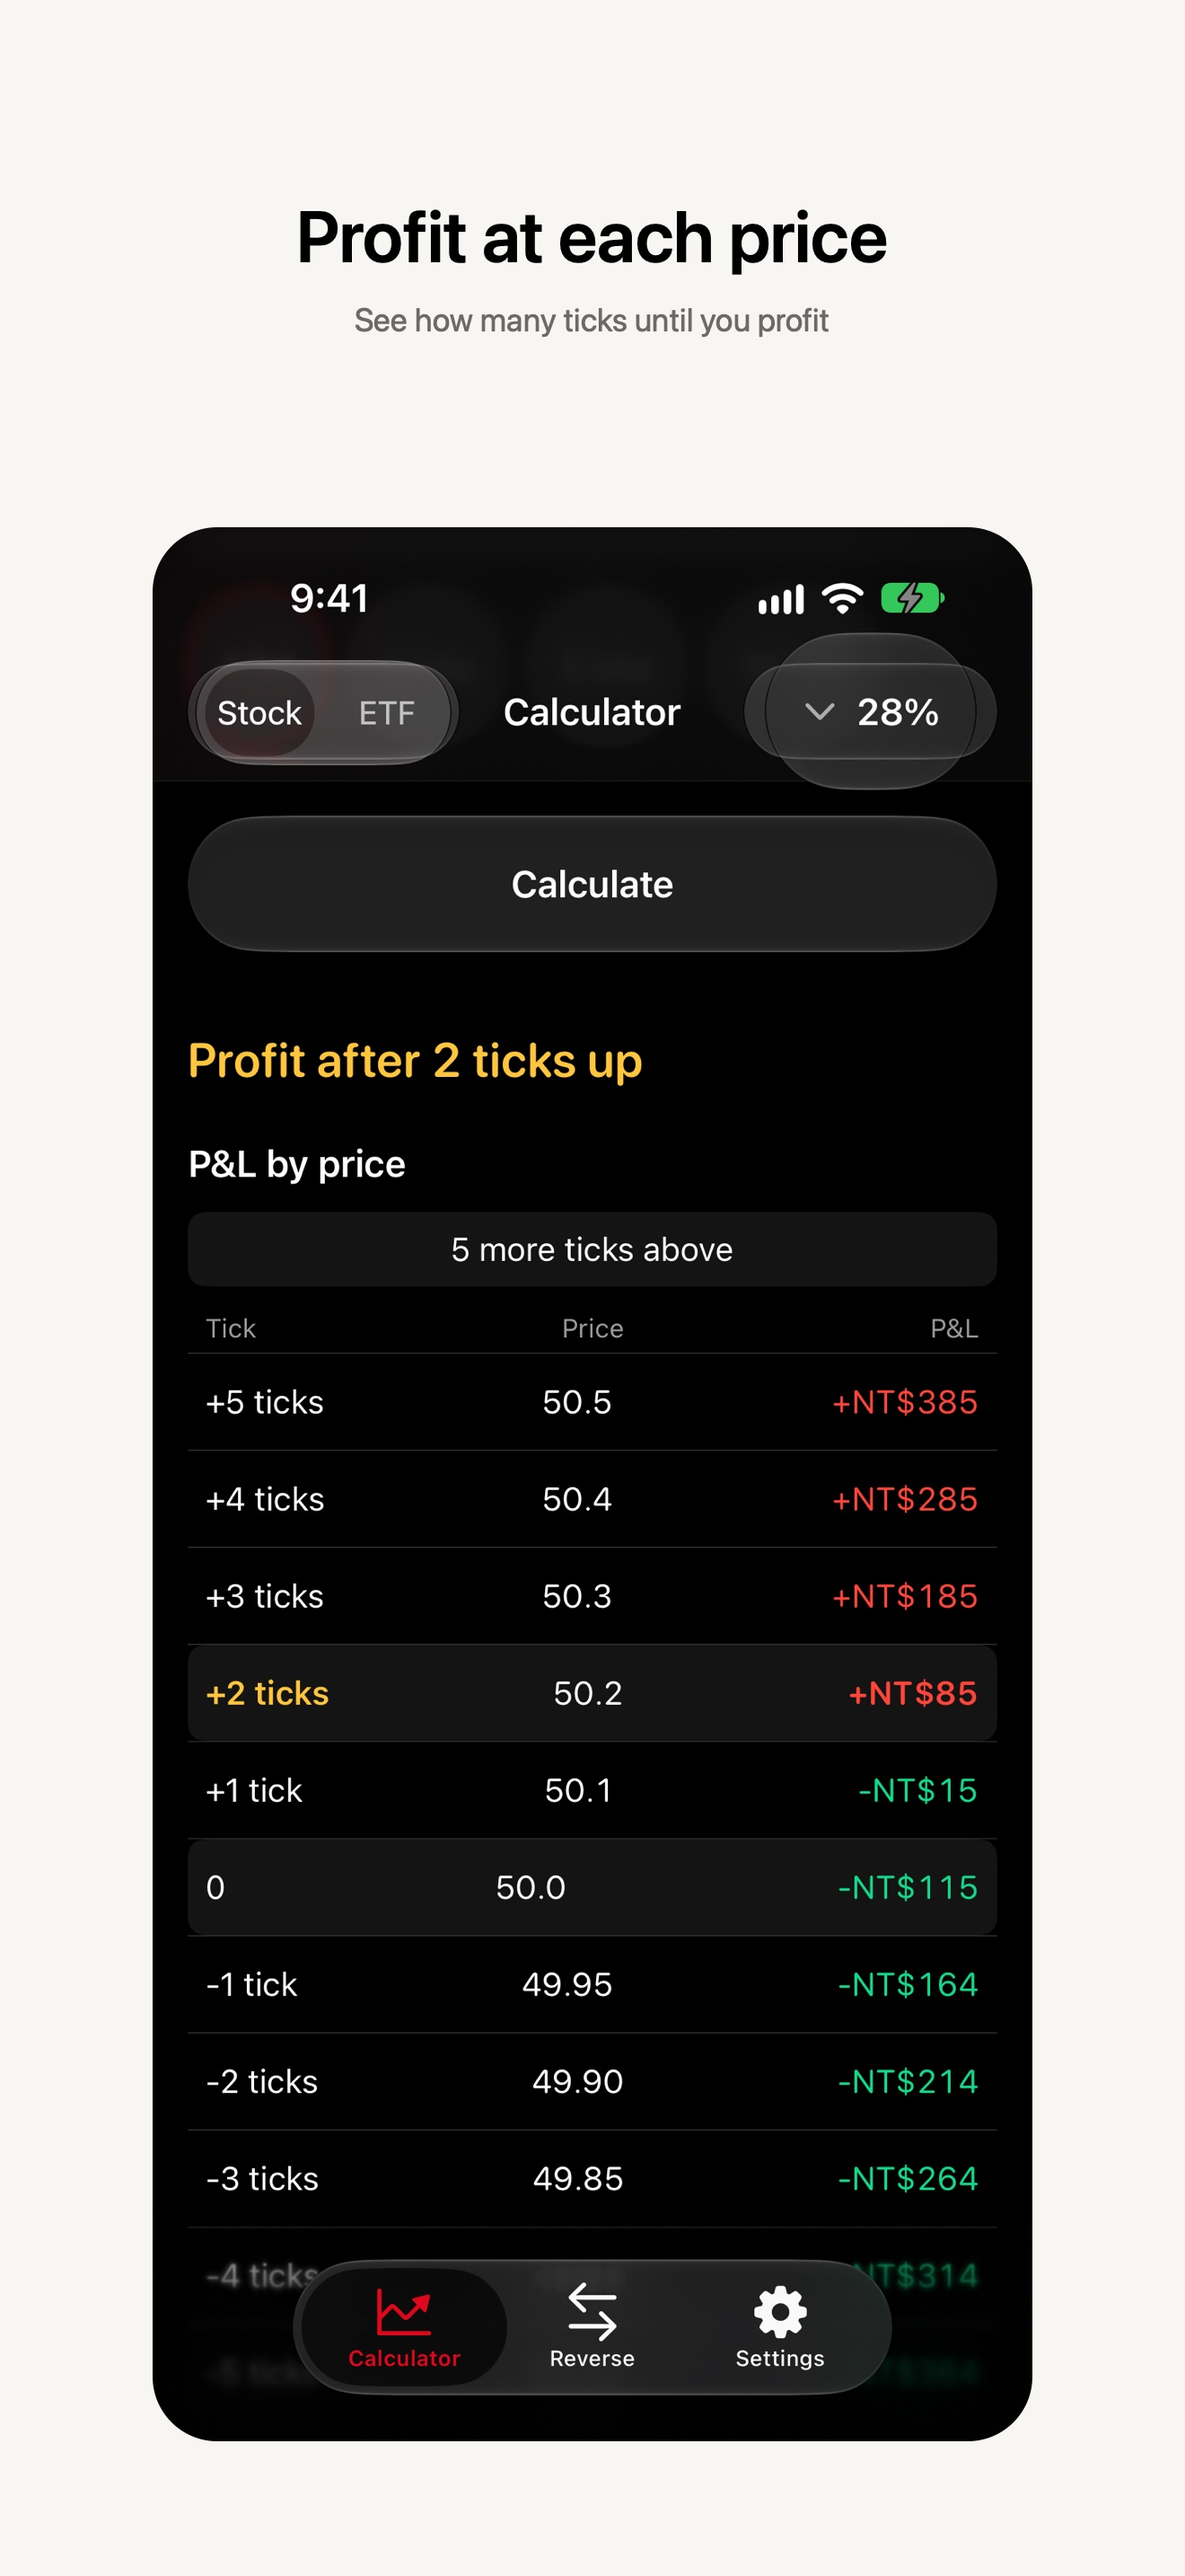
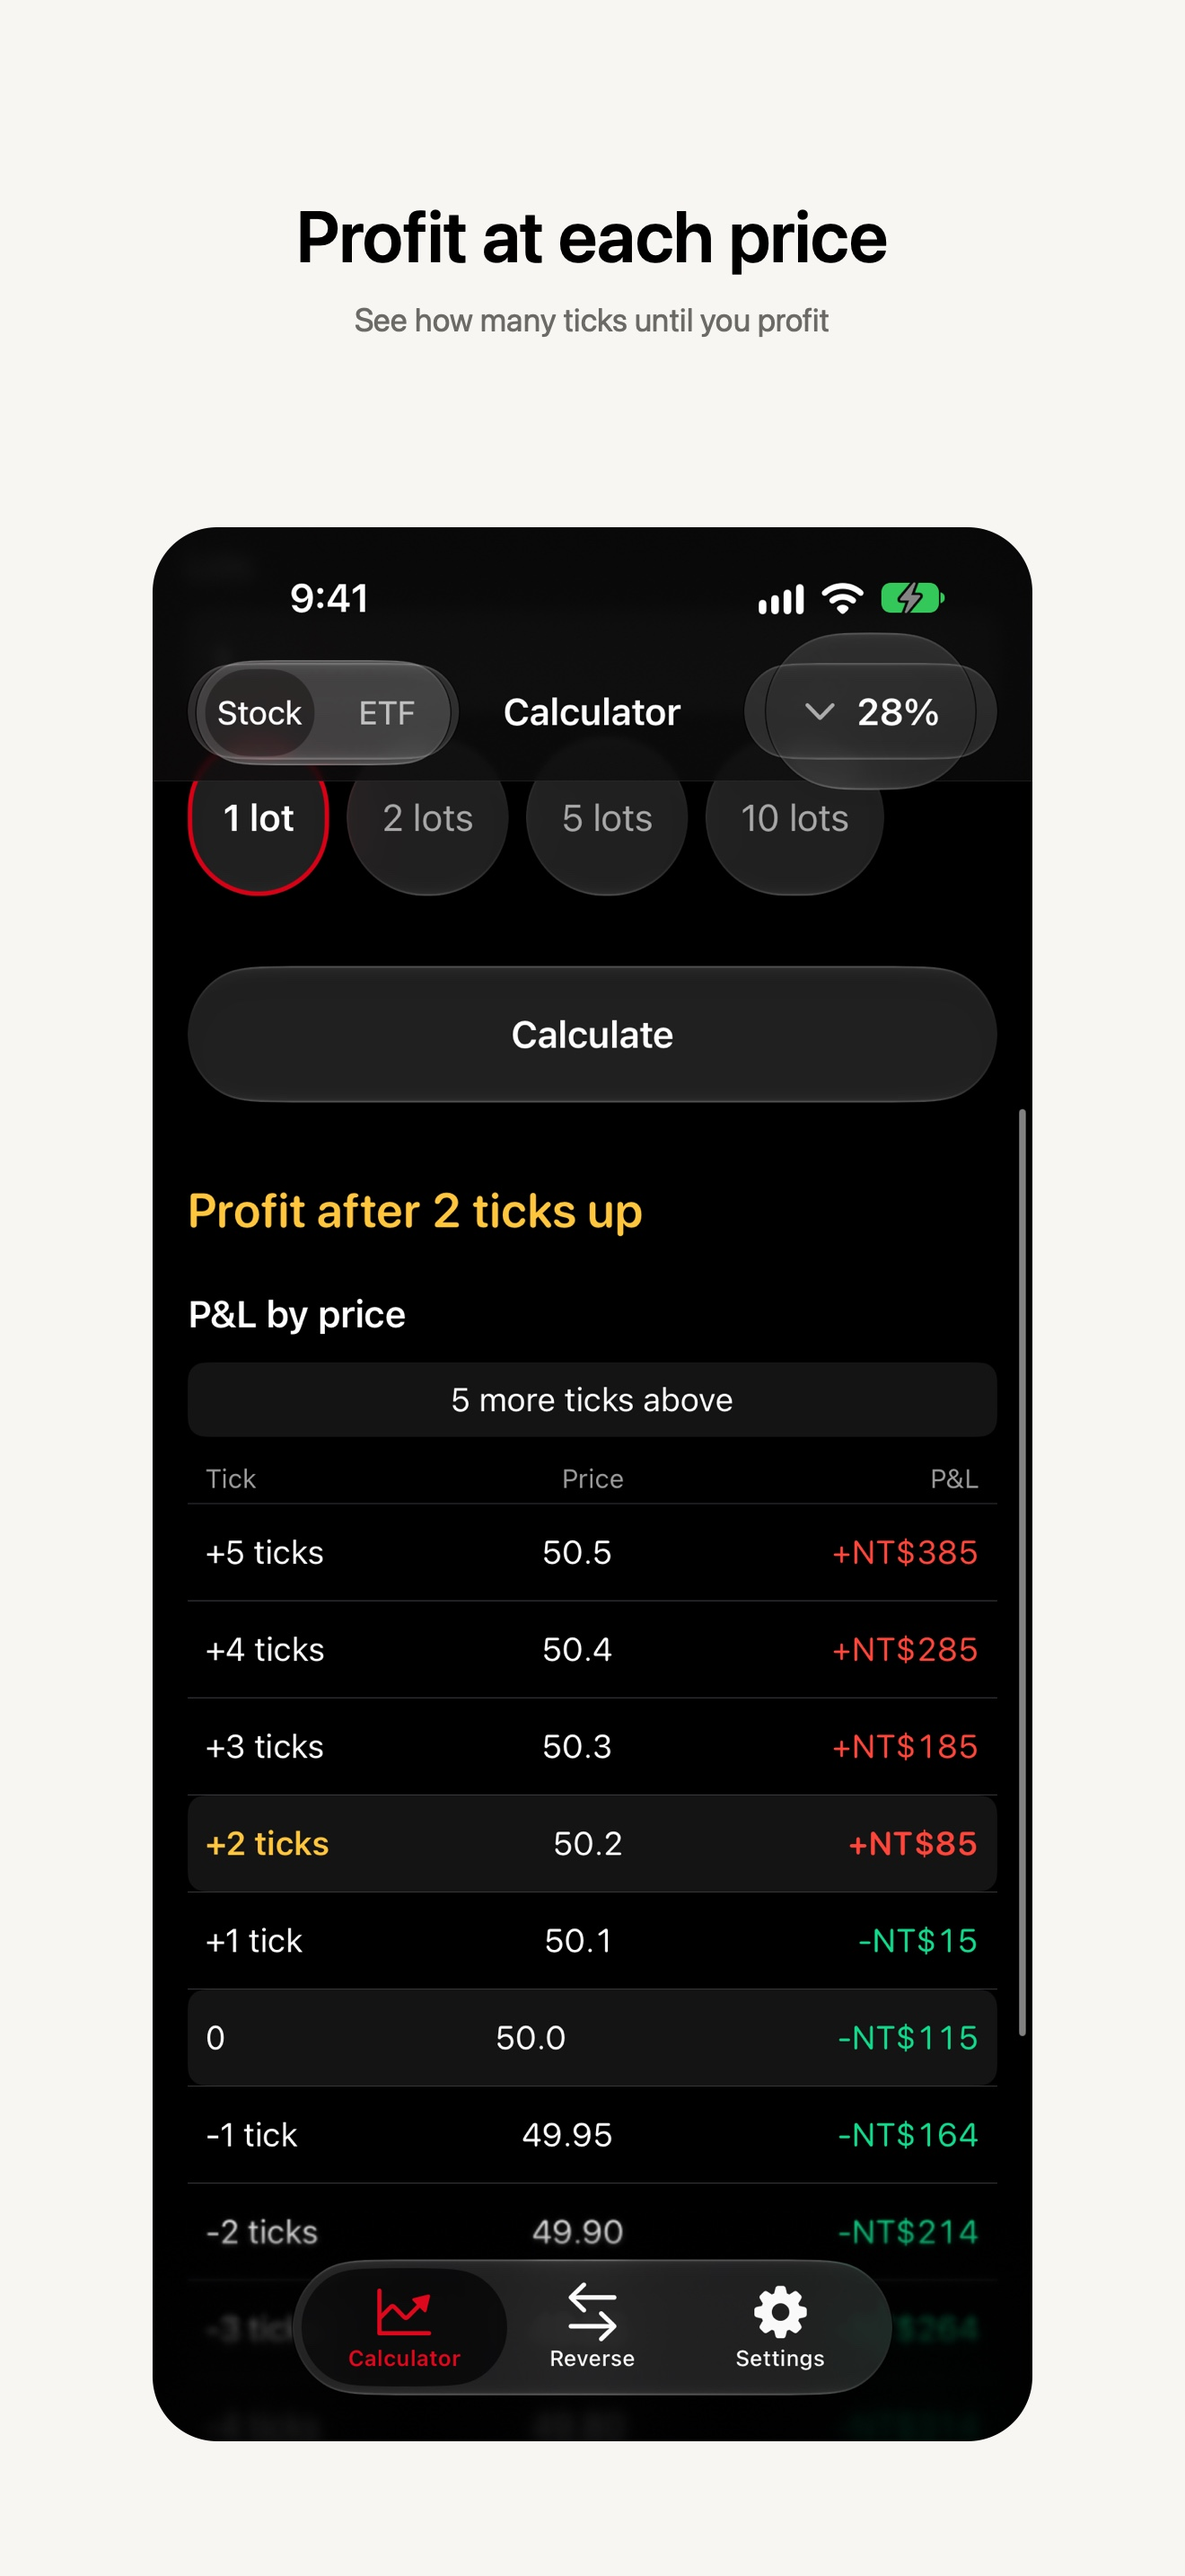
docs: 反推說明加入常見折數判定與再加一筆交易，更新商店截圖
對應 App 1.0 (3)（TWDayTrade P003）：反推對到多個折數時採用唯一的
常見折數並列出其他吻合折數；可再加一筆交易取交集。替換 en-03、
en-04、zh-03 三張商店截圖。

diff --git a/support.html b/support.html
@@ -62,7 +62,9 @@
       <ol>
         <li>打開「反推」，點你的券商。元大這類單邊明細抄「價金」和「手續費」。</li>
         <li>國泰這類買賣彙總改抄賣出價金、買進價金和手續費合計。不要填持有成本或損益。</li>
-        <li>算出唯一折數後，可按「將手續費設為 N 折」。確認後會變成你的折數。</li>
+        <li>只對到一個折數時直接顯示。對到好幾個折數時，如果其中只有一個是常見折數（整數折、半折，或 3.8、2.8、1.68 折），會先採用它，並列出其他也吻合的折數；不是你的折數就在下方改選。</li>
+        <li>價金小的交易常對到好幾個折數。按「再加一筆交易」，輸入同一個券商帳戶的另一筆，折數取每一筆都吻合的那一個。</li>
+        <li>確定後按「將手續費設為 N 折」。確認後會變成你的折數。</li>
       </ol>
       <h2>折數和稅</h2>
       <p>折數只看價金和手續費，與現股、當沖、ETF 的證交稅無關。買賣彙總若列出證交稅，沿用試算頁目前的股票或 ETF 當沖稅率，可能和對帳單上的稅不同。</p>
@@ -84,7 +86,9 @@
       <ol>
         <li>Open Reverse and tap your broker. For a single-side statement such as Yuanta, copy proceeds and commission.</li>
         <li>For a combined statement such as Cathay, copy sell proceeds, buy proceeds, and the combined commission. Do not enter cost basis or P/L.</li>
-        <li>When one discount matches, tap “Set fee to …”. After you confirm, it becomes your discount.</li>
+        <li>If only one discount matches, it is shown. If several match and only one is a common discount (a whole or half step, or 38%, 28%, or 16.8% of list), that one is shown first, with the other matches listed below. If it is not yours, pick another.</li>
+        <li>Small trades often match several discounts. Tap “Add another trade” and enter another trade from the same broker account. The discount must match every trade.</li>
+        <li>When the discount is settled, tap “Set fee to …”. After you confirm, it becomes your discount.</li>
       </ol>
       <h2>Discount and tax</h2>
       <p>The discount uses proceeds and commission only. It does not depend on regular, day-trade, or ETF tax. If the combined view shows transaction tax, it follows the calculator’s current stock or ETF day-trade rate, which may differ from the statement.</p>

diff --git a/index.html b/index.html
@@ -71,7 +71,7 @@
         </figure>
       </div>
       <h3>3. 從對帳單反推</h3>
-      <p>打開反推，點券商。單邊明細抄價金和手續費；買賣彙總再抄買進價金和手續費合計。不要填持有成本或損益。算出來可設成你的折數。</p>
+      <p>打開反推，點券商。單邊明細抄價金和手續費；買賣彙總再抄買進價金和手續費合計。不要填持有成本或損益。對到好幾個折數時，可以再加一筆交易確認。算出來可設成你的折數。</p>
       <figure class="manual-shot">
         <img src="store/zh-04-fee-reverse.jpg" width="402" height="874" alt="從對帳單反推折數">
         <figcaption>抄價金和手續費，反推折數。</figcaption>
@@ -99,7 +99,7 @@
         </figure>
       </div>
       <h3>3. Reverse a statement</h3>
-      <p>Open Reverse and tap your broker. For a single-side statement, copy proceeds and commission. For a combined statement, also copy buy proceeds and the combined commission. Skip cost basis and P/L. You can save the result as your discount.</p>
+      <p>Open Reverse and tap your broker. For a single-side statement, copy proceeds and commission. For a combined statement, also copy buy proceeds and the combined commission. Skip cost basis and P/L. If several discounts match, add another trade to confirm. You can save the result as your discount.</p>
       <figure class="manual-shot">
         <img src="store/en-04-fee-reverse.jpg" width="402" height="874" alt="Reverse the fee">
         <figcaption>Copy proceeds and commission to reverse the discount.</figcaption>
